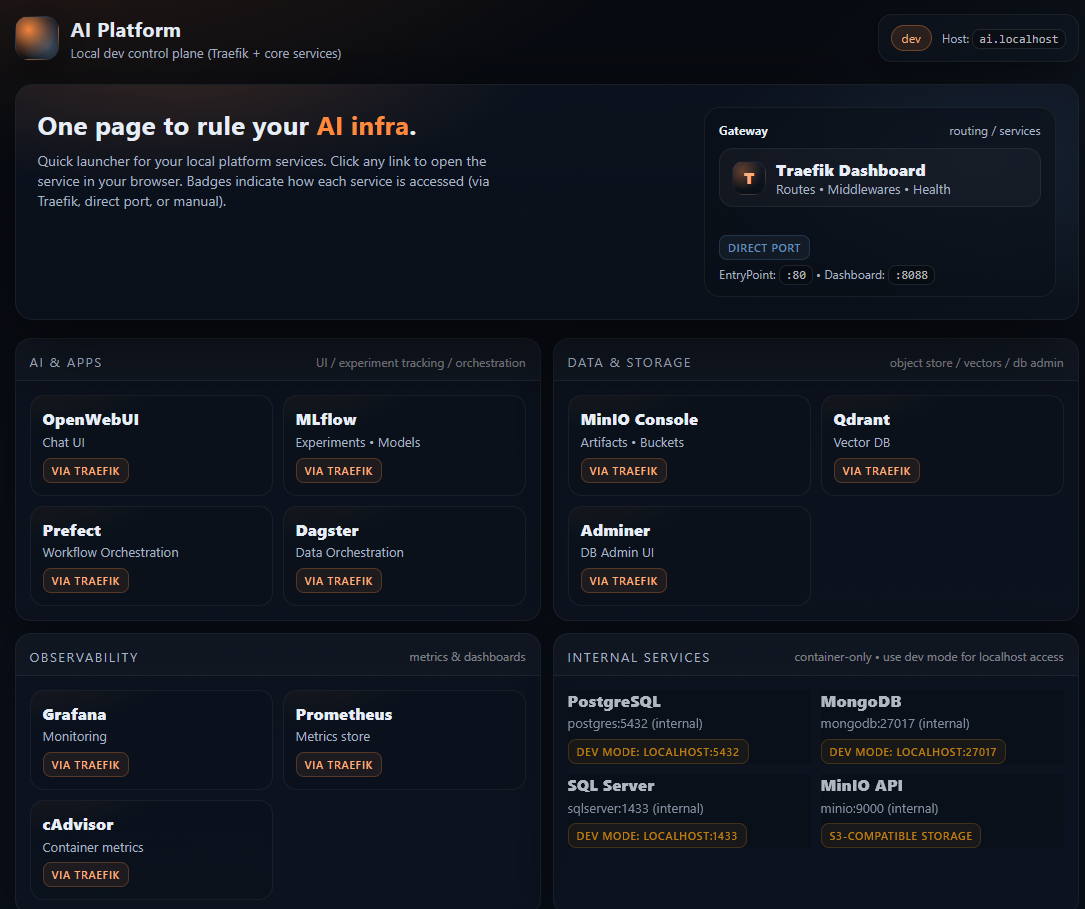
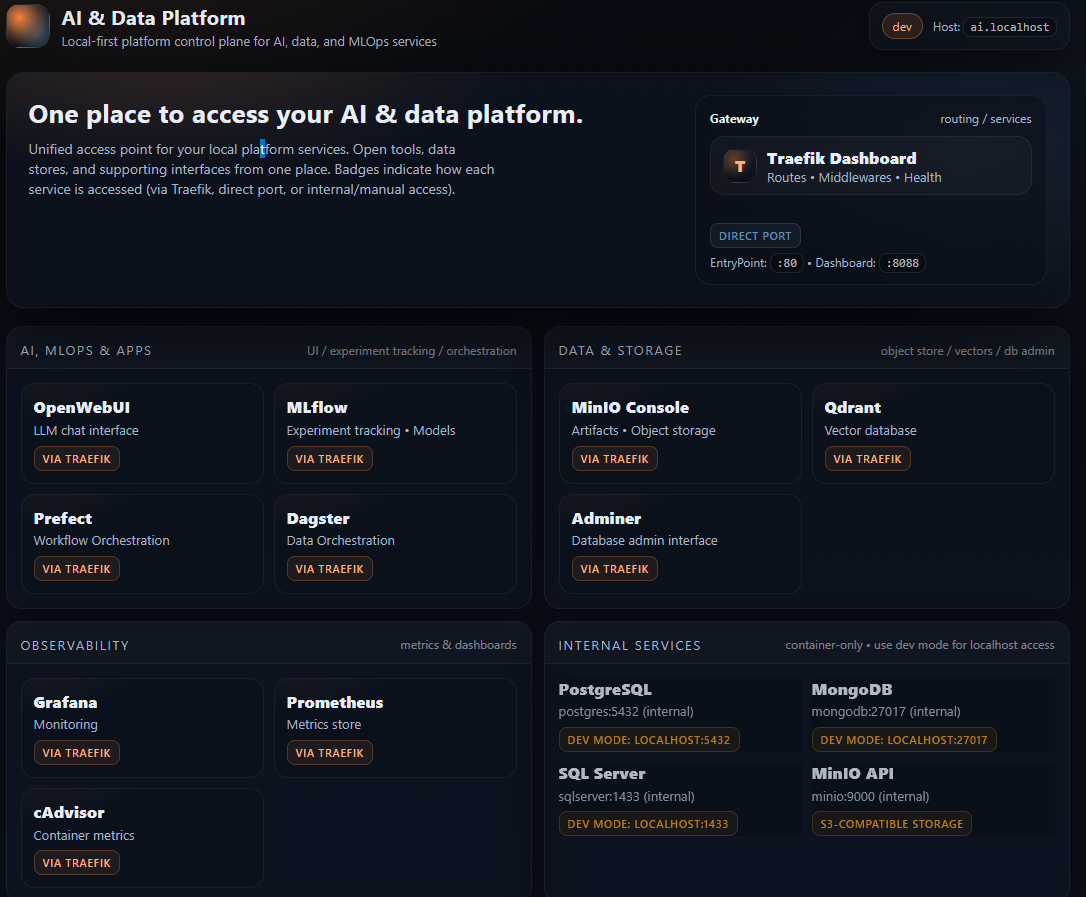
Refine dashboard branding and update platform visuals

diff --git a/platform/tools/dashboard/index.html b/platform/tools/dashboard/index.html
@@ -3,7 +3,7 @@
 <head>
   <meta charset="utf-8" />
   <meta name="viewport" content="width=device-width,initial-scale=1" />
-  <title>AI Platform</title>
+  <title>AI & Data Platform</title>
   <meta name="robots" content="noindex,nofollow" />
   <style>
     :root{
@@ -286,8 +286,8 @@
       <div class="brand">
         <div class="logo" aria-hidden="true"></div>
         <div>
-          <h1>AI Platform</h1>
-          <div class="subtitle">Local dev control plane (Traefik + core services)</div>
+          <h1>AI & Data Platform</h1>
+          <div class="subtitle">Local-first platform control plane for AI, data, and MLOps services</div>
         </div>
       </div>
       <div class="env">
@@ -299,10 +299,10 @@
     <div class="hero">
       <div class="heroRow">
         <div>
-          <h2 class="heroTitle">One page to rule your <span class="accent">AI infra</span>.</h2>
+          <h2 class="heroTitle">One place to access your AI &amp; data platform.</h2>
           <p class="heroText">
-            Quick launcher for your local platform services. Click any link to open the service in your browser.
-            Badges indicate how each service is accessed (via Traefik, direct port, or manual).
+            Unified access point for your local platform services. Open tools, data stores, and supporting interfaces from one place.
+            Badges indicate how each service is accessed (via Traefik, direct port, or internal/manual access).
           </p>
         </div>
 
@@ -326,7 +326,7 @@
     <div class="section">
       <div class="panel">
         <div class="panelHead">
-          <p class="h">AI & Apps</p>
+          <p class="h">AI, MLOps & Apps</p>
           <span class="hint">UI / experiment tracking / orchestration</span>
         </div>
         <div class="grid">
@@ -334,7 +334,7 @@
             <div class="row">
               <div>
                 <p class="title">OpenWebUI</p>
-                <p class="meta">Chat UI</p>
+                <p class="meta">LLM chat interface</p>
                 <span class="badge traefik">via traefik</span>
               </div>
             </div>
@@ -344,7 +344,7 @@
             <div class="row">
               <div>
                 <p class="title">MLflow</p>
-                <p class="meta">Experiments • Models</p>
+                <p class="meta">Experiment tracking • Models</p>
                 <span class="badge traefik">via traefik</span>
               </div>
             </div>
@@ -382,7 +382,7 @@
             <div class="row">
               <div>
                 <p class="title">MinIO Console</p>
-                <p class="meta">Artifacts • Buckets</p>
+                <p class="meta">Artifacts • Object storage</p>
                 <span class="badge traefik">via traefik</span>
               </div>
             </div>
@@ -392,7 +392,7 @@
             <div class="row">
               <div>
                 <p class="title">Qdrant</p>
-                <p class="meta">Vector DB</p>
+                <p class="meta">Vector database</p>
                 <span class="badge traefik">via traefik</span>
               </div>
             </div>
@@ -402,7 +402,7 @@
             <div class="row">
               <div>
                 <p class="title">Adminer</p>
-                <p class="meta">DB Admin UI</p>
+                <p class="meta">Database admin interface</p>
                 <span class="badge traefik">via traefik</span>
               </div>
             </div>
